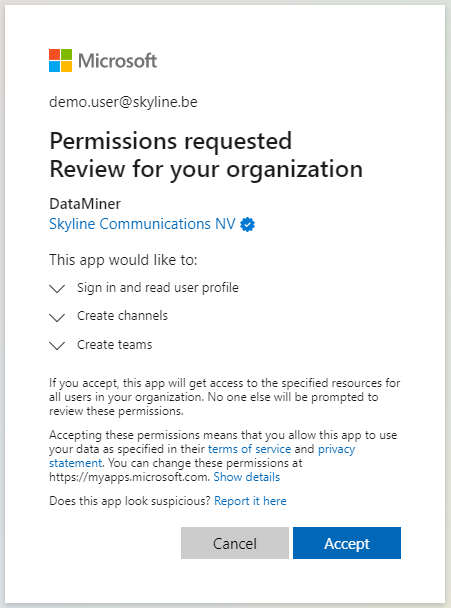
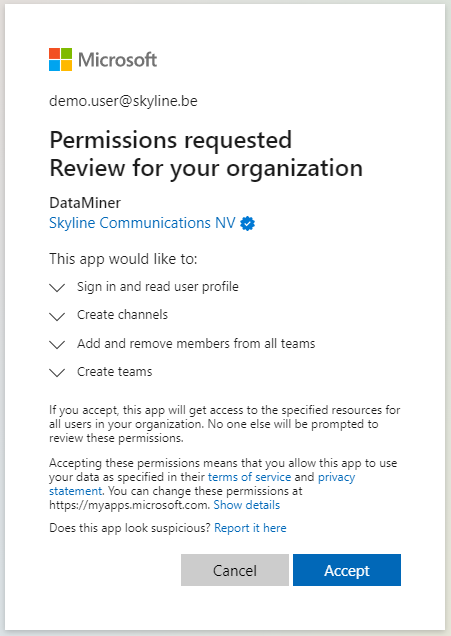
Added extra permission

Changed region(s): [[0.0931, 0.0625, 0.8071, 0.5938], [0.0931, 0.625, 0.9002, 0.9375]]

diff --git a/user-guide/Cloud_Platform/CloudAdminApp/Granting_admin_consent.md b/user-guide/Cloud_Platform/CloudAdminApp/Granting_admin_consent.md
@@ -4,7 +4,7 @@ uid: Granting_admin_consent
 
 # Granting admin consent
 
-In order to use the Chat Integration functionality for Microsoft Teams, admin consent has to be granted for some permissions, e.g. to create Teams and Channels. After consent is granted, the Microsoft tenant has to be configured for your Cloud Connected organization.
+In order to use the Chat Integration functionality for Microsoft Teams, admin consent has to be granted for some permissions, e.g. to create Teams, Channels and add members to a Team. After consent is granted, the Microsoft tenant has to be configured for your Cloud Connected organization.
 
 To grant admin consent and configure your tenant:
 
